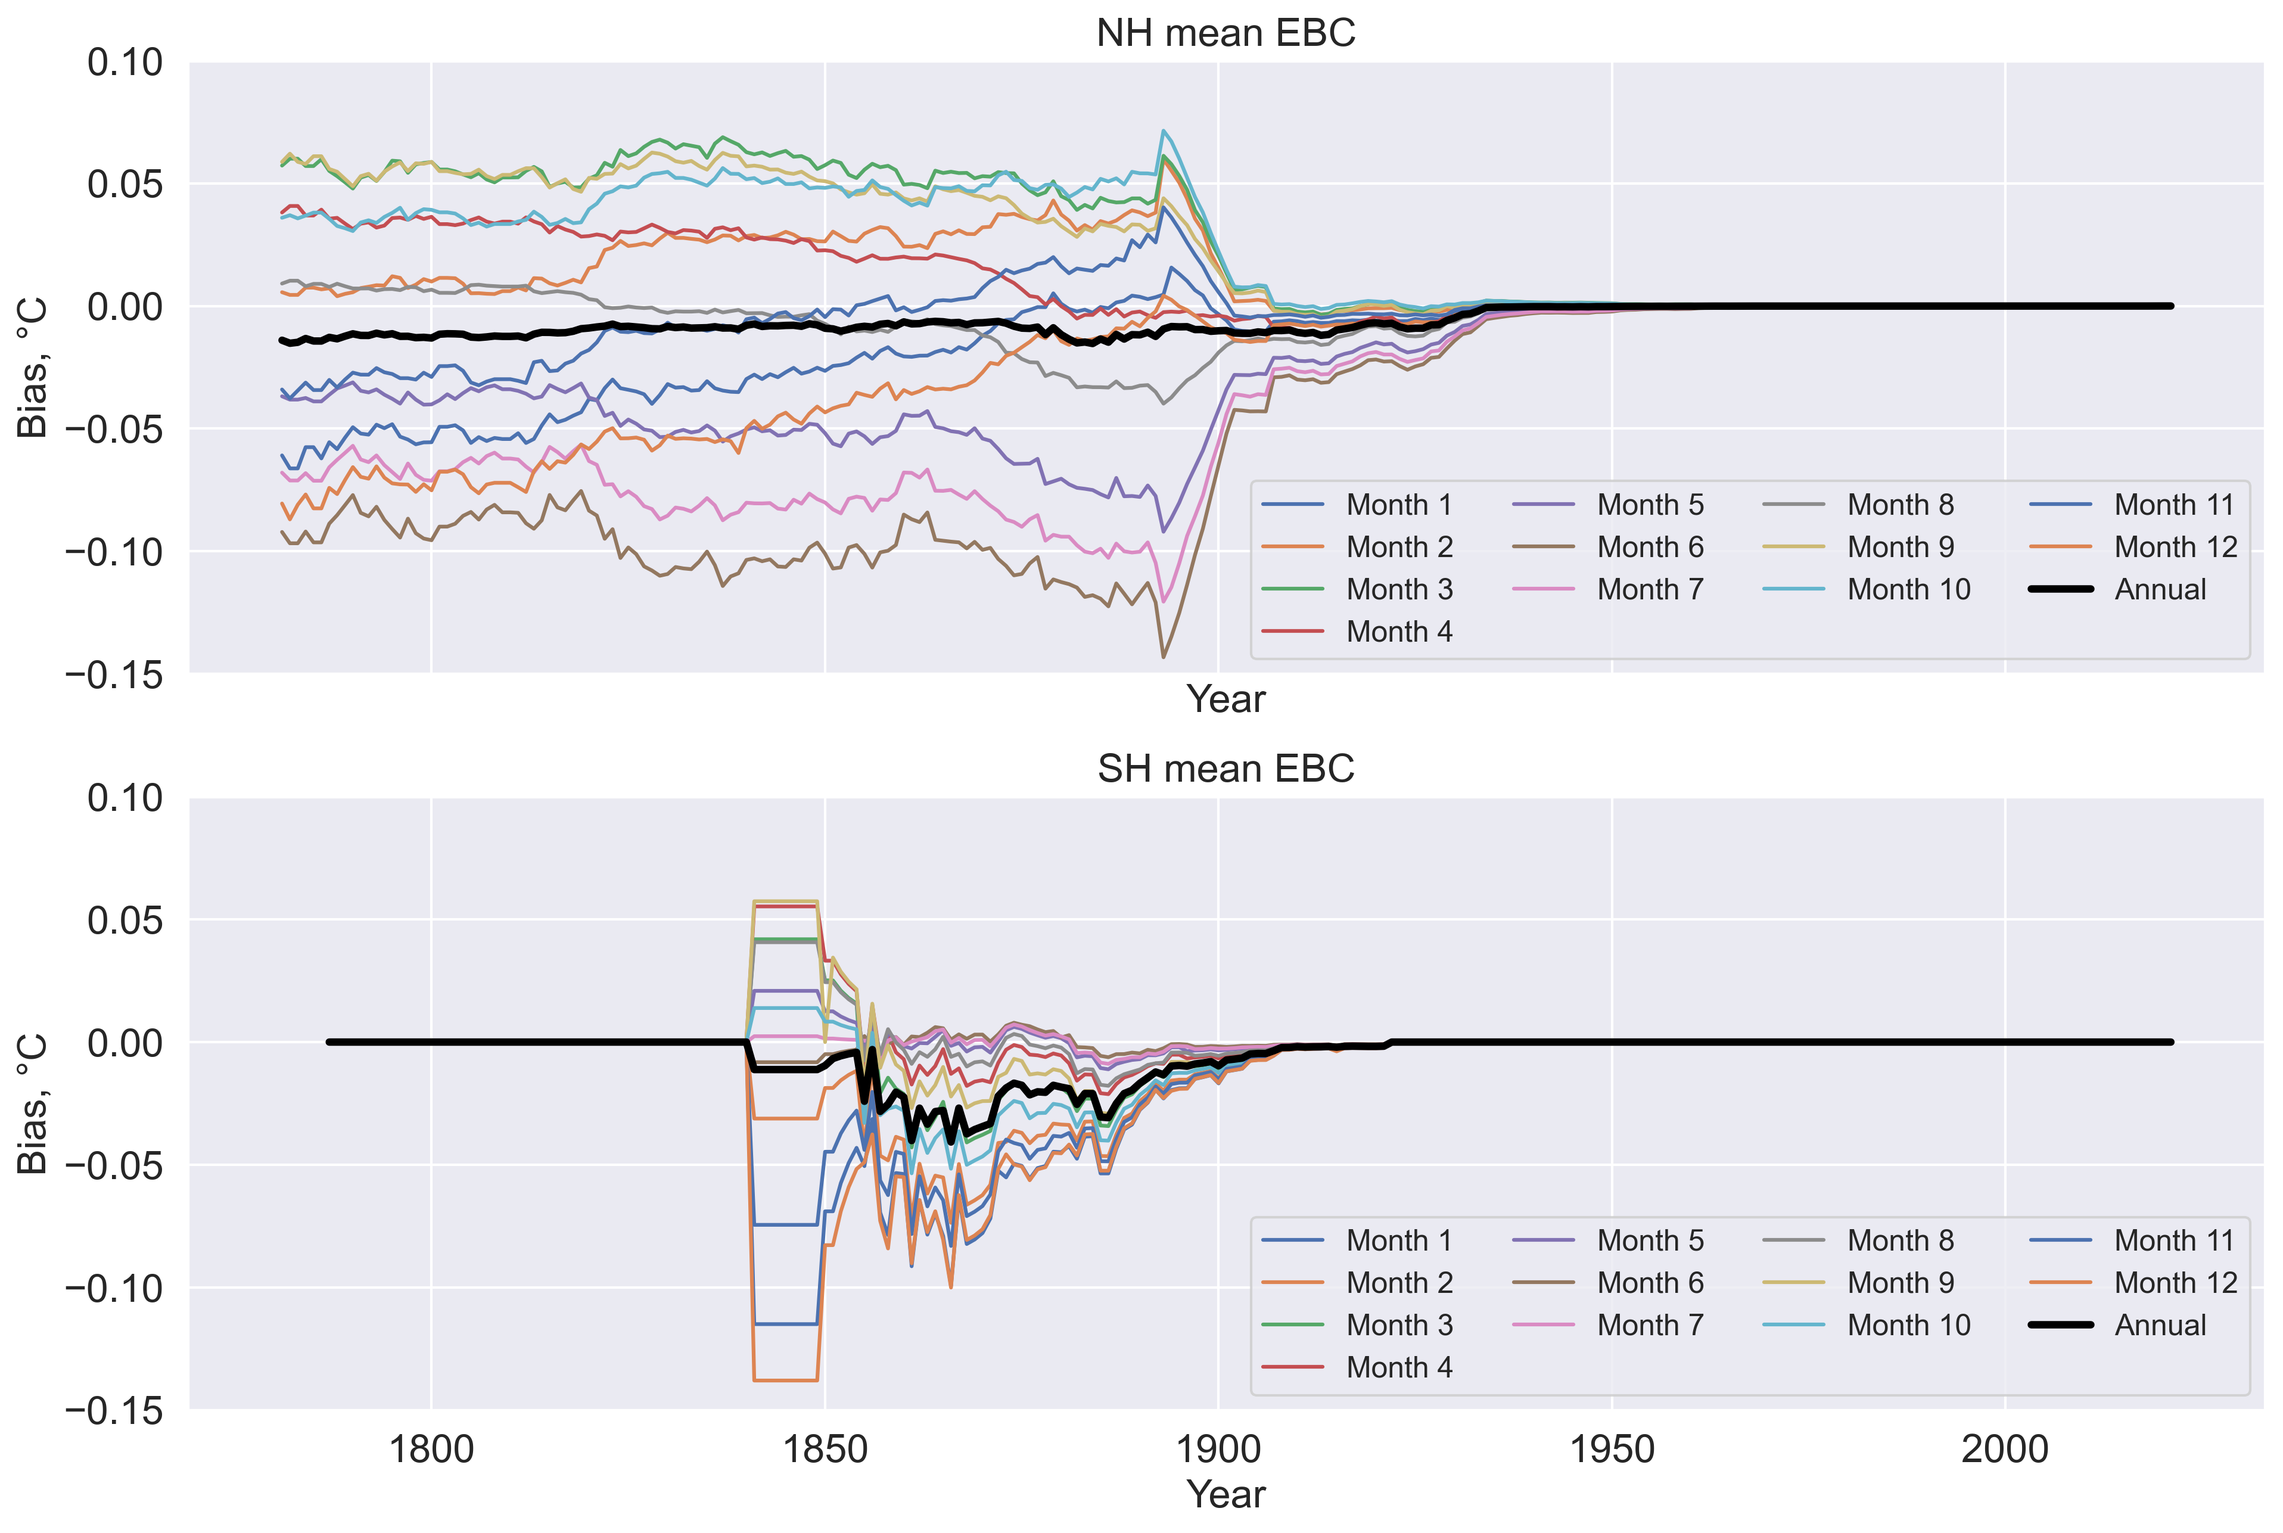
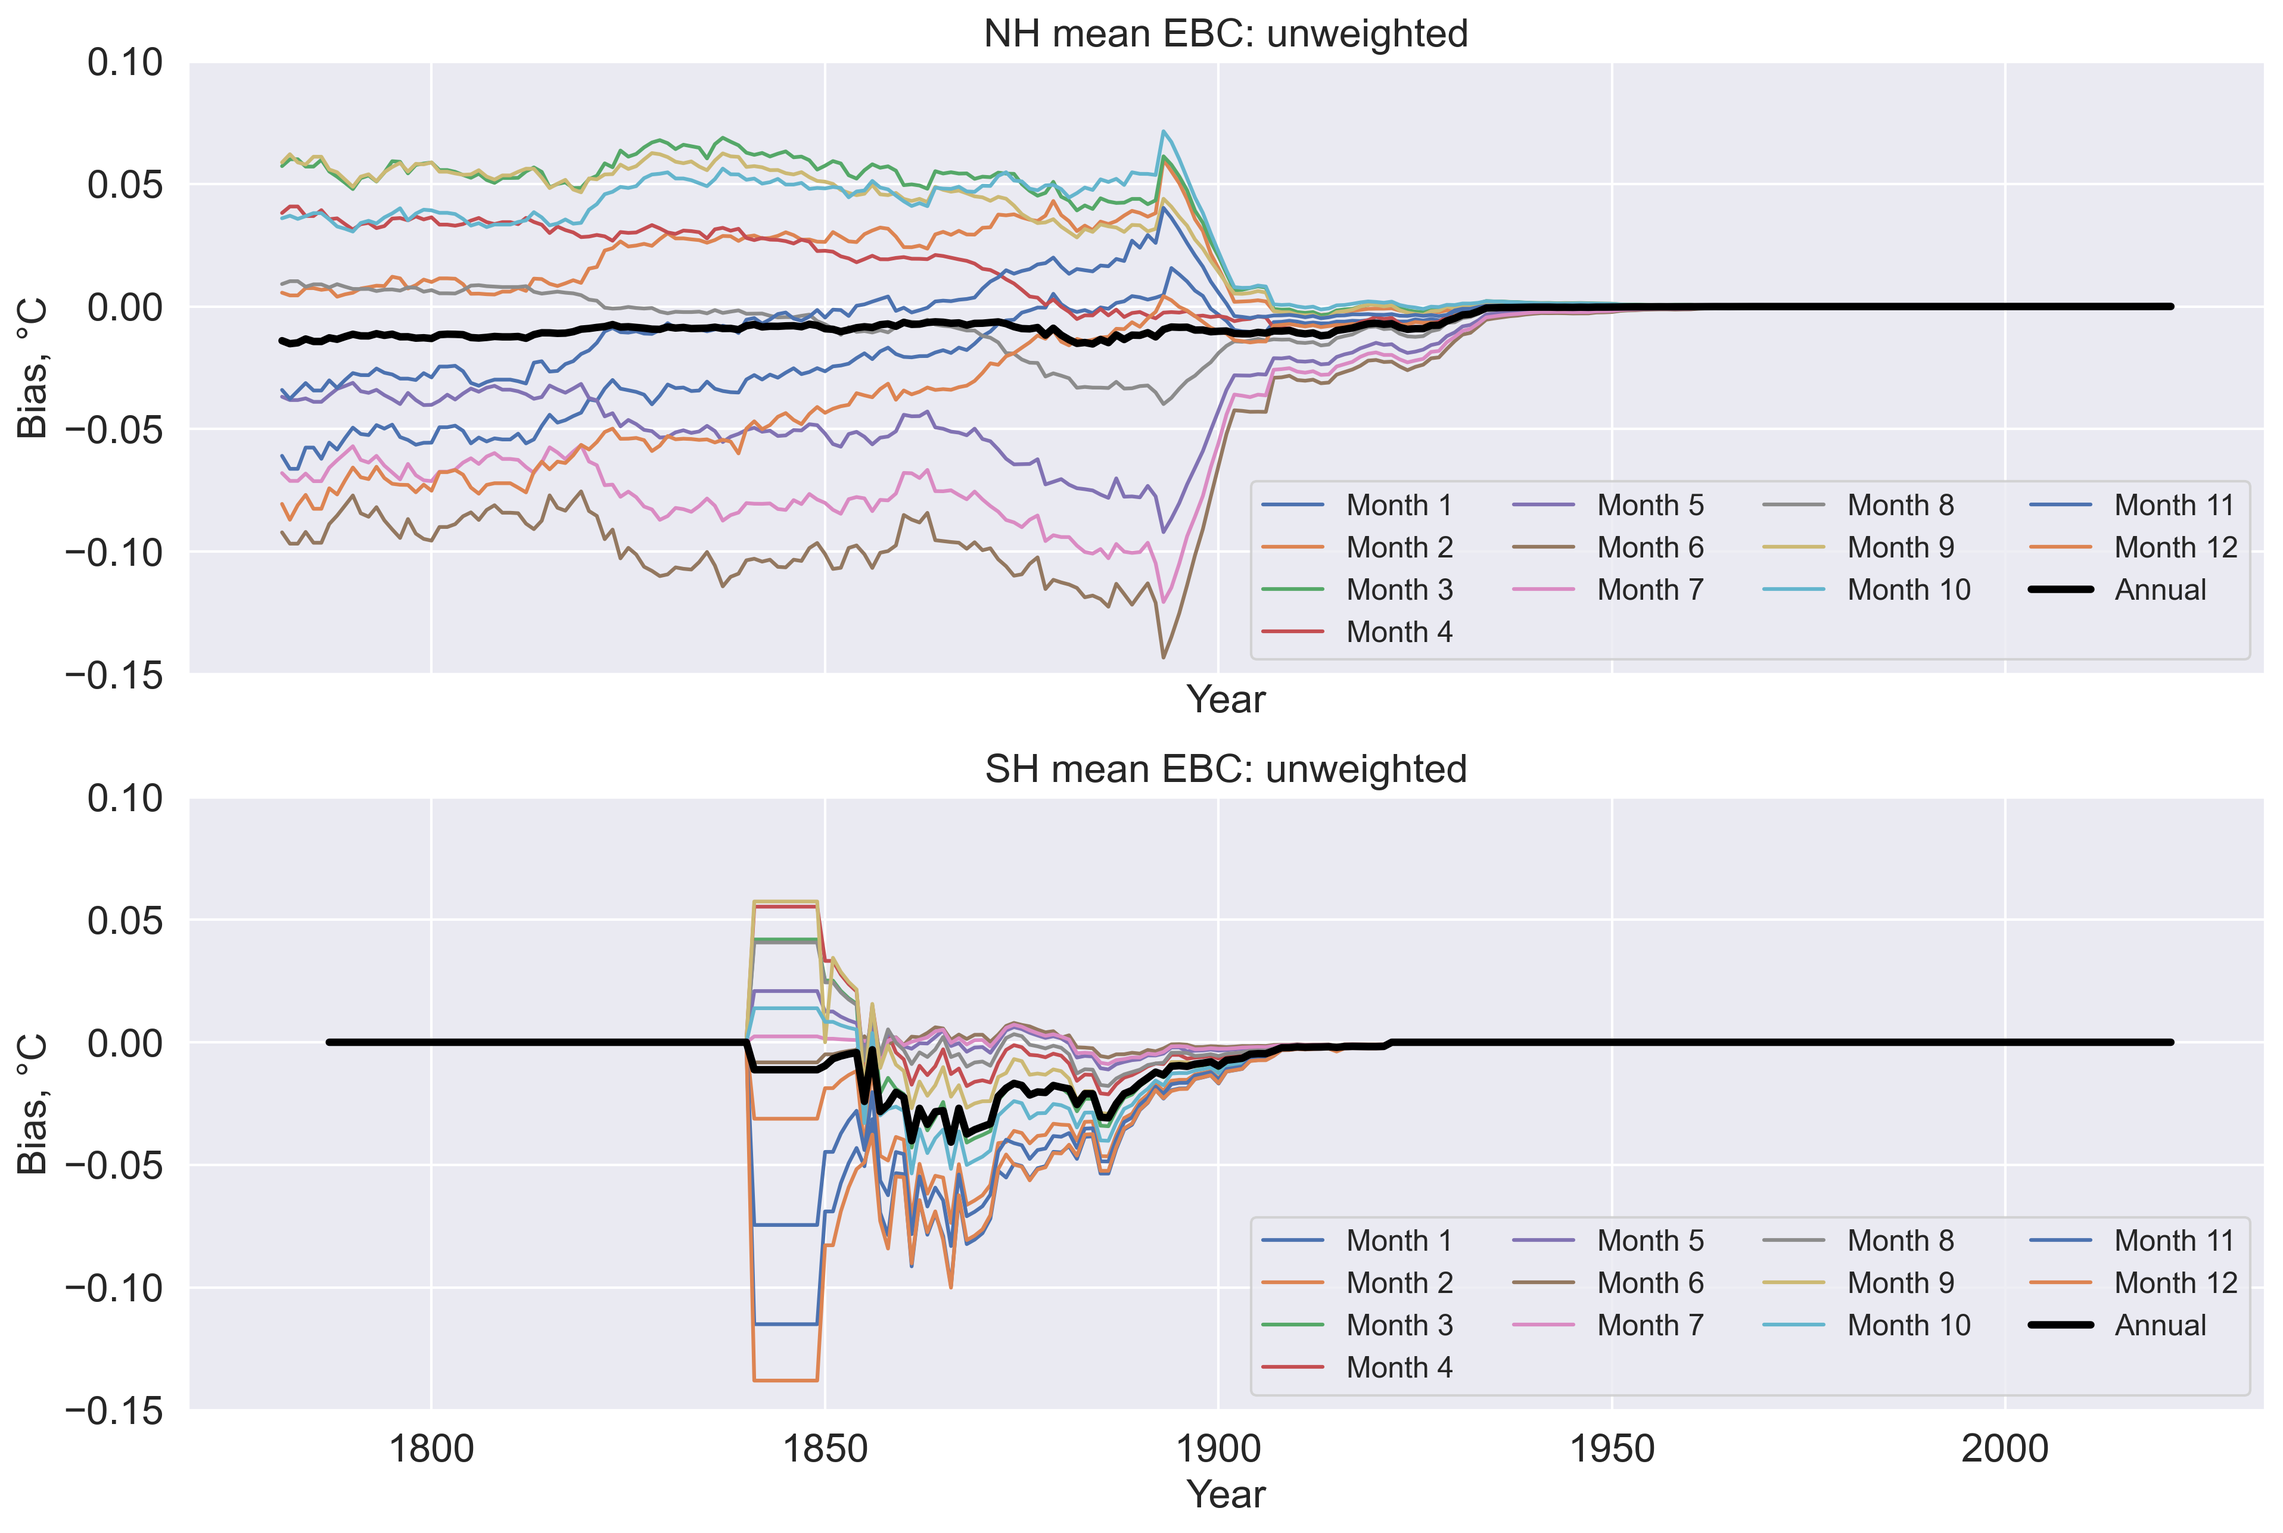
Added zonal area-weighted land fraction calculation and plots

diff --git a/plot-exposure-bias-correction-area-weighted.py b/plot-exposure-bias-correction-area-weighted.py
@@ -1,0 +1,166 @@
+#------------------------------------------------------------------------------
+# PROGRAM: plot-exposure-bias-correction-area-weighted.py
+#------------------------------------------------------------------------------
+# Version 0.1
+# 26 June, 2022
+# Michael Taylor
+# https://patternizer.github.io
+# michael DOT a DOT taylor AT uea DOT ac DOT uk
+# patternizer AT gmail DOT com
+#------------------------------------------------------------------------------ 
+
+#------------------------------------------------------------------------------
+# IMPORT PYTHON LIBRARIES
+#------------------------------------------------------------------------------
+# Dataframe libraries:
+import numpy as np
+import pandas as pd
+import pickle
+import xarray as xr
+import netCDF4
+# Plotting libraries:
+import matplotlib.pyplot as plt
+import seaborn as sns; sns.set()
+#------------------------------------------------------------------------------
+
+#------------------------------------------------------------------------------
+# SETTINGS: 
+#------------------------------------------------------------------------------
+
+fontsize = 16
+
+df_temp_file = 'DATA/df_temp_qc.pkl'
+df_ebm_file = 'DATA/df_exposure_bias.pkl'
+df_temp_ebc_file = 'OUT/df_temp_ebc.pkl'
+df_ebc_file = 'OUT/df_ebc.pkl'
+sftof_file = 'DATA/sftof.nc' # CMPI6 climatological land/sea mask for zonal land weighting
+
+tstart, tend = 1781, 2022
+nsmooth = 60 # months
+
+latstep = 5
+    
+#------------------------------------------------------------------------------
+# LOAD: dataframes
+#------------------------------------------------------------------------------
+
+# LOAD: temperature .pkl file
+df_temp = pd.read_pickle( df_temp_file, compression='bz2' )
+
+# LOAD: EBC temperature .pkl file
+df_temp_ebc = pd.read_pickle( df_temp_ebc_file, compression='bz2' )
+
+# LOAD: exposure bias correction dataframe
+df_ebc = pd.read_pickle( df_ebc_file, compression='bz2' )
+
+# LOAD: exposure bias model
+df_ebm = pd.read_pickle( df_ebm_file, compression='bz2' )
+
+#------------------------------------------------------------------------------
+# TRIM: to GloSAT year range [1781,2022]
+#------------------------------------------------------------------------------
+
+df_temp = df_temp[ ( df_temp.year >= tstart ) & ( df_temp.year <= tend ) ]
+df_temp_ebc = df_temp_ebc[ ( df_temp_ebc.year >= tstart ) & ( df_temp_ebc.year <= tend ) ]
+df_ebc = df_ebc[ ( df_ebc.year >= tstart ) & ( df_ebc.year <= tend ) ]
+
+#------------------------------------------------------------------------------
+# COMPUTE: zonal aweighting
+#------------------------------------------------------------------------------
+
+# COMPUTE: Zonal latitude weights
+
+zones = np.arange(-90,90+latstep,latstep) # zone boundaries
+zones_per_degree = np.arange(-90,90+1,1) # zone boundaries oer degree
+zone_bins = np.arange(-90+latstep/2, 90+latstep/2, latstep)
+zone_bins_per_degree = np.arange(-90+1/2, 90+1/2, 1)
+
+zonal_lat_weight_per_degree = []
+for i in zone_bins_per_degree:
+    zonal_lat_weight_per_degree.append( np.abs( np.cos( (i/180) * np.pi ) ) )
+zonal_lat_weight_per_degree = np.array( zonal_lat_weight_per_degree )
+zonal_lat_weight = []
+for i in zone_bins:
+    zonal_lat_weight.append( np.abs( np.cos( (i/180) * np.pi ) ) )
+zonal_lat_weight = np.array( zonal_lat_weight )
+
+# COMPUTE: Zonal land fraction weights
+
+nc = netCDF4.Dataset( sftof_file, "r") # 1x1 degree
+lats = nc.variables["lat"][:]
+lons = nc.variables["lon"][:]
+sftof = np.ma.filled(nc.variables["sftof"][:,:],0.0)
+nc.close()
+zonal_land_weight_per_degree = np.nanmean( sftof, axis=1 ) # per degree
+zonal_land_weight_per_degree = zonal_land_weight_per_degree[::-1]/100
+zonal_land_weight = []
+zones_dict = dict( zip( zones_per_degree, np.arange(len(zonal_land_weight_per_degree)+1) ) )
+for i in range(len(zones)-1):  
+    weight_land = np.nanmean( zonal_land_weight_per_degree[ zones_dict[zones[i]] : zones_dict[zones[i]+latstep] ] )
+    print(i, zones[i], weight_land)
+    zonal_land_weight.append( weight_land ) 
+zonal_land_weight = np.array( zonal_land_weight )
+
+# COMBINE: weights
+
+zonal_weight = zonal_lat_weight * zonal_land_weight
+zonal_weight_per_degree = zonal_lat_weight_per_degree * zonal_land_weight_per_degree
+
+# HEMISPHERICAL: weights
+
+zonal_weight_hemisphere = np.array([ 0.49577966, 0.43426979]) # NH,SH computed from latstep = 90 run
+
+#==============================================================================
+# PLOTS
+#==============================================================================
+
+#------------------------------------------------------------------------------
+# PLOT: zonal area-weights
+#------------------------------------------------------------------------------
+
+figstr = 'zonal-weighting' + '-' + str(latstep).zfill(2) + '.png'
+titlestr = 'Zonal weights: ' + str(latstep) + r'$^{\circ}$ bins with land fraction weighting'
+xstr = 'Weight'
+ystr = 'Latitude, °N'
+
+fig, ax = plt.subplots(figsize=(15,10))          
+plt.plot( zonal_lat_weight_per_degree, zone_bins_per_degree,'^-', label='Cos(lat): ' + str(1) + r'$^{\circ}$' )
+plt.plot( zonal_weight_per_degree, zone_bins_per_degree,'o-', label='Cos(lat)*sftof: ' + str(1) + r'$^{\circ}$' )
+plt.plot( zonal_weight, zone_bins,'v-', label='Cos(lat)*sftof: ' + str(latstep) + r'$^{\circ}$' )
+plt.tick_params(labelsize=fontsize)    
+plt.legend(loc='lower right', ncol=1, fontsize=12)
+plt.xlabel(xstr, fontsize=fontsize)
+plt.ylabel(ystr, fontsize=fontsize)
+plt.title( titlestr, fontsize=fontsize)
+plt.savefig(figstr, dpi=300, bbox_inches='tight')
+plt.close(fig)
+
+#------------------------------------------------------------------------------
+# PLOT: zonal area-weighted EBC
+#------------------------------------------------------------------------------
+
+figstr = 'zonal-mean-ebc' + '-' + str(latstep).zfill(2) + '.png'
+titlestr = 'Zonal EBC: ' + str(latstep) + r'$^{\circ}$ bins with land fraction weighting'
+xstr = 'Year'
+ystr = 'Bias, °C'
+
+fig, ax = plt.subplots(figsize=(15,10))          
+for i in range(len(zones)-1):  
+    zonal_mean = df_ebc[ ( df_ebc.stationlat > zones[i] ) & ( df_ebc.stationlat <= zones[i+1] ) ].groupby('year').mean().iloc[:,0:12].mean(axis=1) * zonal_weight[i]
+    zonal_mean_rms = np.sqrt( np.nanmean( zonal_mean**2.0 ) ) 
+    if zonal_mean_rms > 0:
+        plt.plot( zonal_mean, label = '[' + str(zones[i]) + ',' + str(zones[i+1]) + ']' + r'$^{\circ}$ latitude')
+plt.tick_params(labelsize=fontsize)    
+plt.legend(loc='lower right', ncol=1, fontsize=12)
+plt.xlabel(xstr, fontsize=fontsize)
+plt.ylabel(ystr, fontsize=fontsize)
+plt.title( titlestr, fontsize=fontsize)
+plt.savefig(figstr, dpi=300, bbox_inches='tight')
+plt.close(fig)
+            
+#------------------------------------------------------------------------------
+print('** END')
+
+
+
+    

diff --git a/plot-exposure-bias-correction.py b/plot-exposure-bias-correction.py
@@ -33,37 +33,29 @@ fontsize = 16
 
 df_temp_file = 'DATA/df_temp_qc.pkl'
 df_ebm_file = 'DATA/df_exposure_bias.pkl'
-
 df_temp_ebc_file = 'OUT/df_temp_ebc.pkl'
 df_ebc_file = 'OUT/df_ebc.pkl'
-
-tstart, tend = 1781, 2022
-
-plot_random_stations = False
 sftof_file = 'DATA/sftof.nc' # land/sea mask for zonal weighting
 
+plot_random_stations = False
+
+tstart, tend = 1781, 2022
+ndraws = 10 # number of randomly selected EBC stations
+    
 #------------------------------------------------------------------------------
-# LOAD: temperature .pkl file
+# LOAD: dataframes 
 #------------------------------------------------------------------------------
 
+# LOAD: temperature .pkl file
 df_temp = pd.read_pickle( df_temp_file, compression='bz2' )
 
-#------------------------------------------------------------------------------
 # LOAD: EBC temperature .pkl file
-#------------------------------------------------------------------------------
-
 df_temp_ebc = pd.read_pickle( df_temp_ebc_file, compression='bz2' )
 
-#------------------------------------------------------------------------------
 # LOAD: exposure bias correction dataframe
-#------------------------------------------------------------------------------
-
 df_ebc = pd.read_pickle( df_ebc_file, compression='bz2' )
 
-#------------------------------------------------------------------------------
 # LOAD: exposure bias model
-#------------------------------------------------------------------------------
-
 df_ebm = pd.read_pickle( df_ebm_file, compression='bz2' )
 
 #------------------------------------------------------------------------------
@@ -73,6 +65,10 @@ df_ebm = pd.read_pickle( df_ebm_file, compression='bz2' )
 df_temp = df_temp[ ( df_temp.year >= tstart ) & ( df_temp.year <= tend ) ]
 df_temp_ebc = df_temp_ebc[ ( df_temp_ebc.year >= tstart ) & ( df_temp_ebc.year <= tend ) ]
 df_ebc = df_ebc[ ( df_ebc.year >= tstart ) & ( df_ebc.year <= tend ) ]
+
+#==============================================================================
+# PLOTS
+#==============================================================================
 
 #------------------------------------------------------------------------------
 # PLOT: hemispherical mean temperatures and EBC-corrected temperature
@@ -89,18 +85,14 @@ ax[0].tick_params(labelsize=fontsize)
 ax[0].legend(loc='lower right', ncol=4, fontsize=12)
 ax[0].set_xlabel(xstr, fontsize=fontsize)
 ax[0].set_ylabel(ystr, fontsize=fontsize)
-ax[0].set_title( 'NH mean', fontsize=fontsize)
-#ax[0].set_ylim(-0.15,0.1)
-
+ax[0].set_title( 'NH mean temperature: unweighted', fontsize=fontsize)
 ax[1].plot( df_temp[ (df_temp.stationlat<0) ].groupby('year').mean().iloc[:,0:12].mean(axis=1), ls='-', lw=1, color='blue', label='CRUTEM')
 ax[1].plot( df_temp_ebc[ (df_temp_ebc.stationlat<0) ].groupby('year').mean().iloc[:,0:12].mean(axis=1), ls='-', lw=1, color='red', label='CRUTEM (EBC)')
 ax[1].tick_params(labelsize=fontsize)    
 ax[1].legend(loc='lower right', ncol=4, fontsize=12)
 ax[1].set_xlabel(xstr, fontsize=fontsize)
 ax[1].set_ylabel(ystr, fontsize=fontsize)
-ax[1].set_title( 'SH mean', fontsize=fontsize)
-#ax[1].set_ylim(-0.15,0.1)
-
+ax[1].set_title( 'SH mean temperature: unweighted', fontsize=fontsize)
 plt.savefig(figstr, dpi=300, bbox_inches='tight')
 plt.close(fig)
 
@@ -120,8 +112,8 @@ ax[0].tick_params(labelsize=fontsize)
 ax[0].legend(loc='lower right', ncol=4, fontsize=12)
 ax[0].set_xlabel(xstr, fontsize=fontsize)
 ax[0].set_ylabel(ystr, fontsize=fontsize)
-ax[0].set_title( 'NH mean EBC', fontsize=fontsize)
-ax[0].set_ylim(-0.15,0.1)
+ax[0].set_title( 'NH mean EBC: unweighted', fontsize=fontsize)
+ax[0].set_ylim(-0.1,0.1)
 for i in range(12):    
     ax[1].plot( df_ebc[ (df_ebc.stationlat<0) ].groupby('year').mean().iloc[:,i], label='Month '+str(i+1))
 ax[1].plot( df_ebc[ (df_ebc.stationlat<0) ].groupby('year').mean().iloc[:,0:12].mean(axis=1), ls='-', lw=3, color='black', label='Annual')
@@ -129,60 +121,8 @@ ax[1].tick_params(labelsize=fontsize)
 ax[1].legend(loc='lower right', ncol=4, fontsize=12)
 ax[1].set_xlabel(xstr, fontsize=fontsize)
 ax[1].set_ylabel(ystr, fontsize=fontsize)
-ax[1].set_title( 'SH mean EBC', fontsize=fontsize)
-ax[1].set_ylim(-0.15,0.1)
-
-plt.savefig(figstr, dpi=300, bbox_inches='tight')
-plt.close(fig)
-
-#------------------------------------------------------------------------------
-# PLOT: zonal mean EBC
-#------------------------------------------------------------------------------
-
-figstr = 'zonal-mean-ebc.png'
-xstr = 'Year'
-ystr = 'Bias, °C'
-
-latstep = 10
-
-# Zonal latitude weights
-
-zones = np.arange(-90,90+latstep,latstep) # zone boundaries
-
-zonal_weight = []
-for i in np.arange(-90+latstep/2, 90+latstep/2, latstep): 
-    zonal_weight.append( np.abs( np.cos( (i/180) * np.pi ) ) )
-zonal_weight = np.array( zonal_weight )
-
-# Zonal land fraction weights
-
-nc = netCDF4.Dataset( sftof_file, "r") # 1x1 degree
-lats = nc.variables["lat"][:]
-lons = nc.variables["lon"][:]
-sftof = np.ma.filled(nc.variables["sftof"][:,:],np.nan)
-nc.close()
-
-zonal_land_weight_per_degree = np.nanmean( sftof, axis=1 ) # per degree
-zonal_land_weight_per_degree = zonal_land_weight_per_degree[::-1]/100
-zonal_land_weight = []
-for i in range(len(zones)-1):  
-    zonal_land_weight.append( np.nanmean( zonal_land_weight_per_degree[ zones[i]:zones[i+1] ] ) ) 
-zonal_land_weight = np.array( zonal_land_weight )
-
-zonal_weight = zonal_weight * zonal_land_weight
-
-fig, ax = plt.subplots(figsize=(15,10))          
-for i in range(len(zones)-1):  
-#    zonal_mean = df_ebc[ ( df_ebc.stationlat > zones[i] ) & ( df_ebc.stationlat <= zones[i+1] ) ].groupby('year').mean().iloc[:,0:12].mean(axis=1) * zonal_weight[i]
-    zonal_mean = df_ebc[ ( df_ebc.stationlat > zones[i] ) & ( df_ebc.stationlat <= zones[i+1] ) ].groupby('year').mean().iloc[:,0:12].mean(axis=1) * zonal_weight[i]
-    zonal_mean_rms = np.sqrt( np.nanmean( zonal_mean**2.0 ) ) 
-    if zonal_mean_rms > 0:
-        plt.plot( zonal_mean, label = '[' + str(zones[i]) + ',' + str(zones[i+1]) + ']' + r'$^{\circ}$ latitude')
-plt.tick_params(labelsize=fontsize)    
-plt.legend(loc='lower right', ncol=1, fontsize=12)
-plt.xlabel(xstr, fontsize=fontsize)
-plt.ylabel(ystr, fontsize=fontsize)
-plt.title( 'Zonal mean EBC', fontsize=fontsize)
+ax[1].set_title( 'SH mean EBC: unweighted', fontsize=fontsize)
+ax[1].set_ylim(-0.1,0.1)
 plt.savefig(figstr, dpi=300, bbox_inches='tight')
 plt.close(fig)
             
@@ -193,9 +133,7 @@ plt.close(fig)
 if plot_random_stations == True:
     
     # SAMPLE: n random stationcodes
-    
-    ndraws = 10
-    
+        
     stationcodes_ebm = df_ebm.stationcode.unique()
     nstations = stationcodes_ebm.shape[0]
     rng = np.random.default_rng(20220625) 
